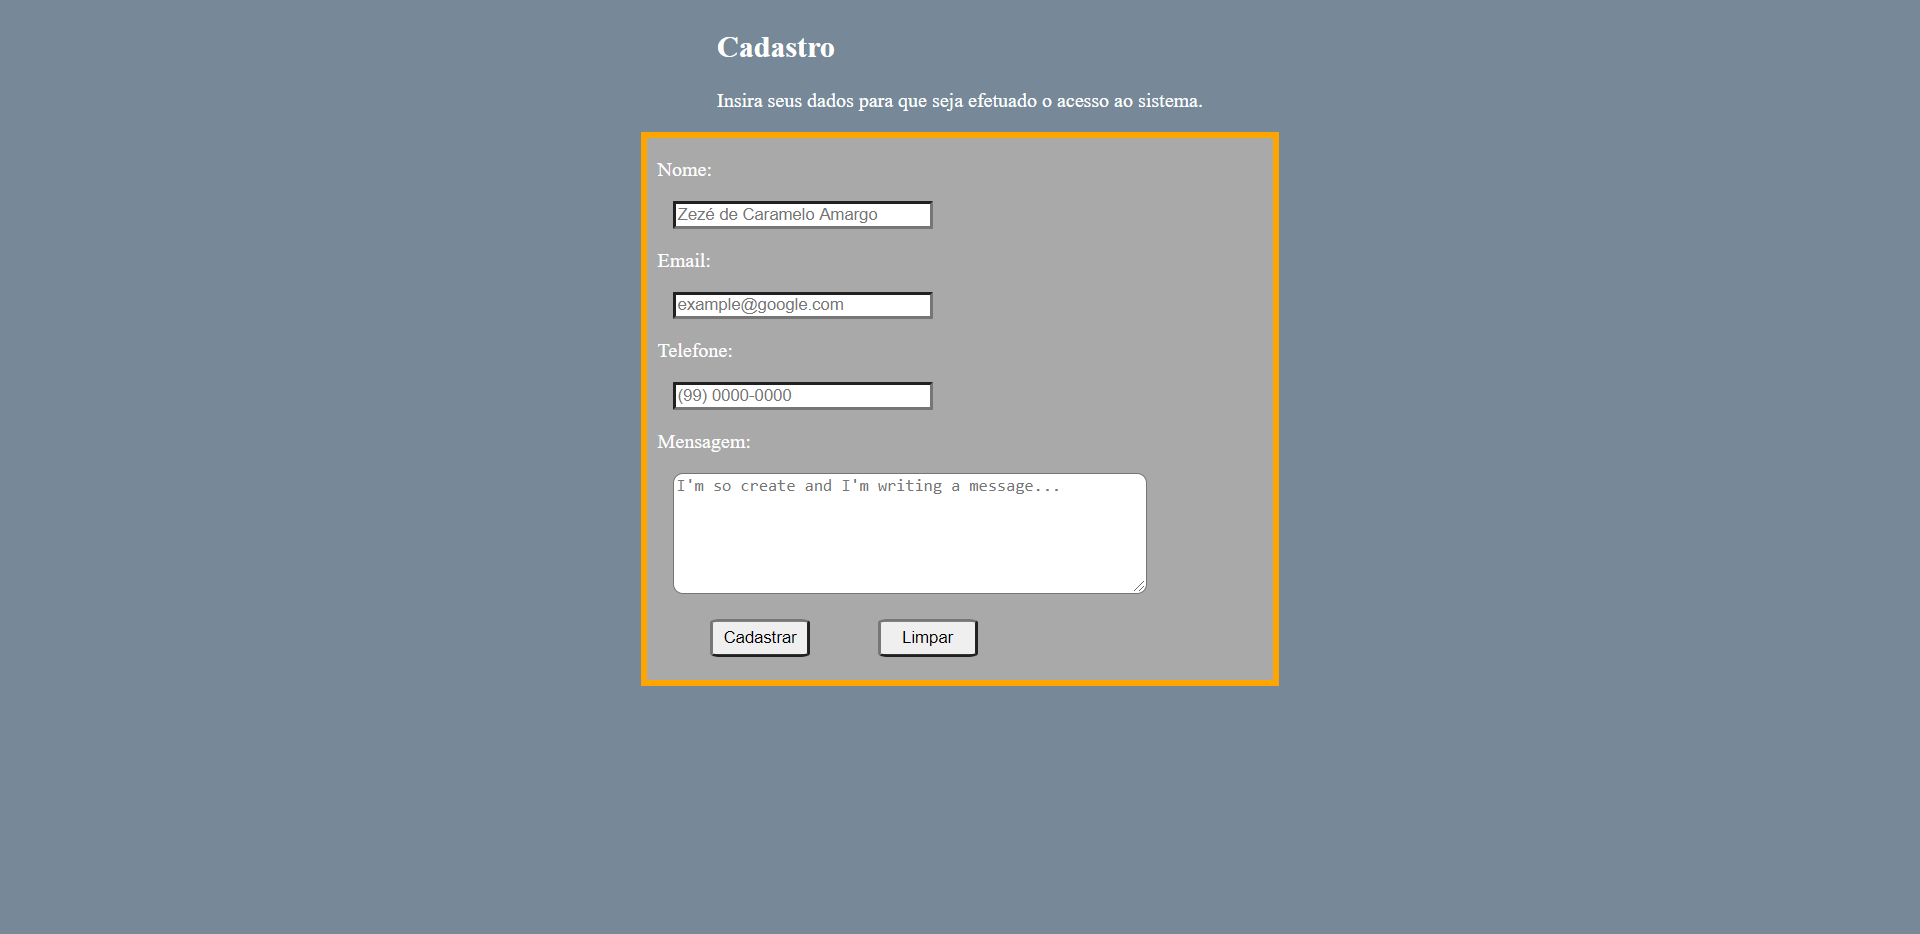
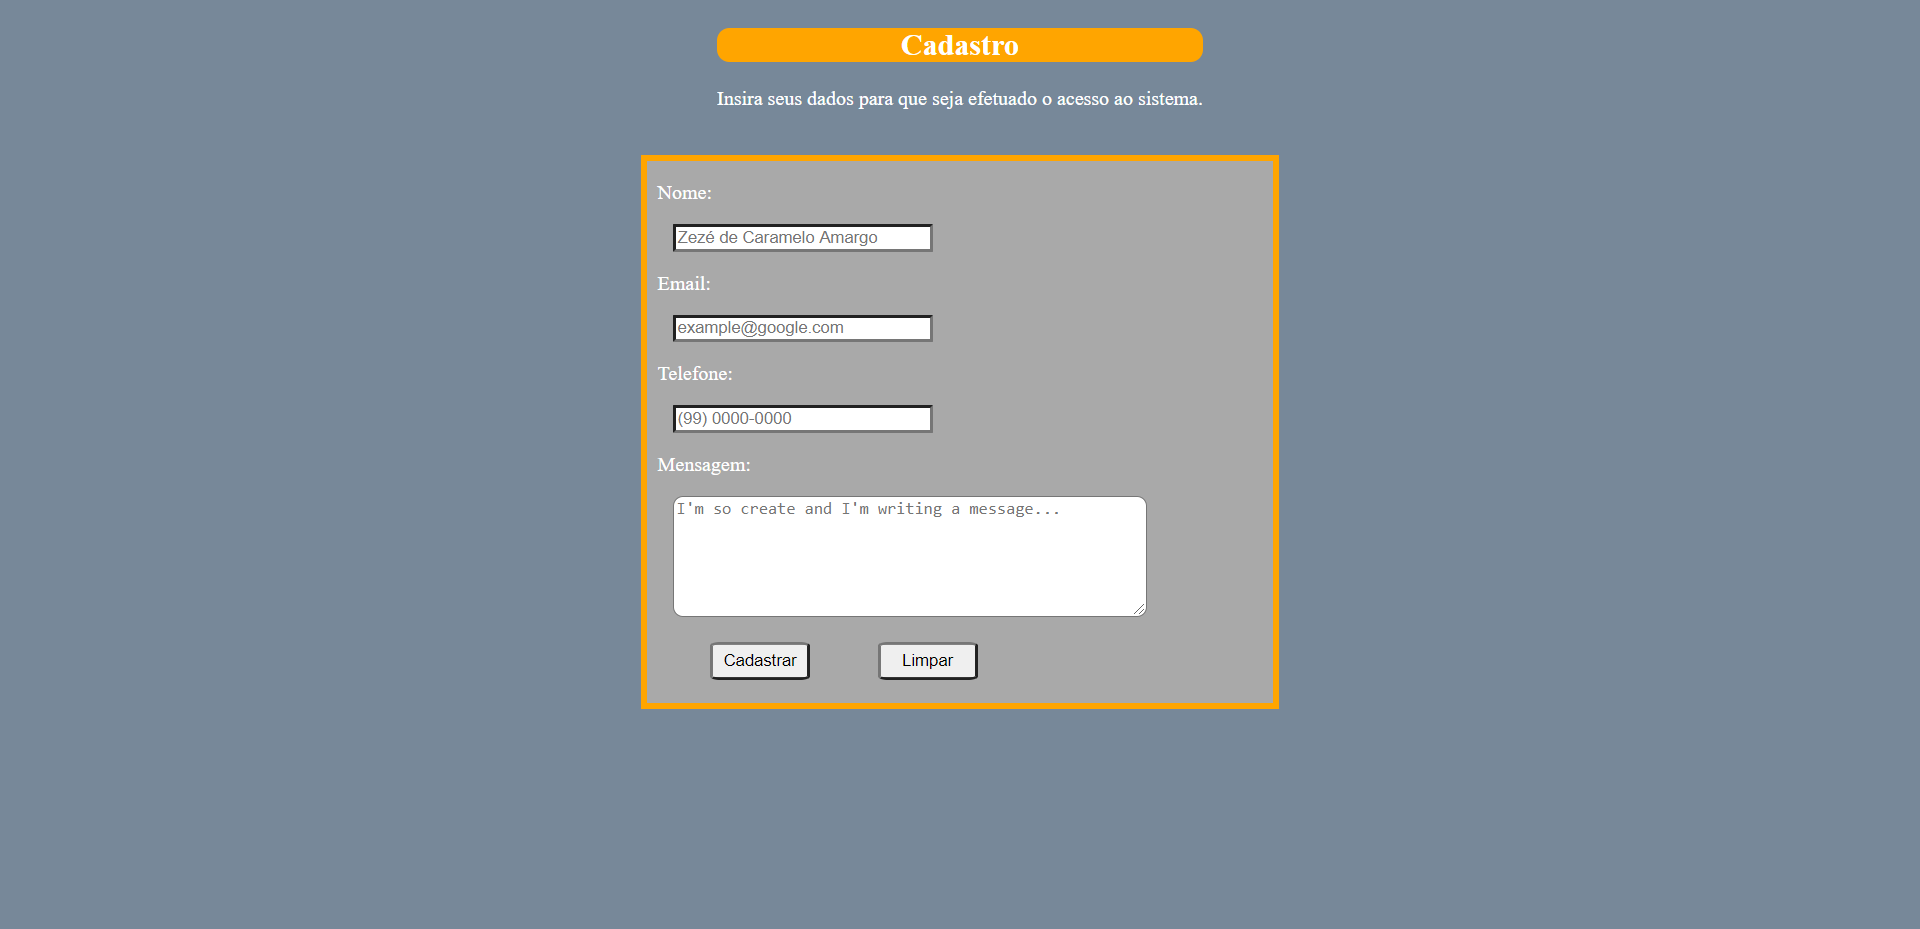
Alterações no exercicio3-formulario

Changed region(s): [[0.3125, 0.0312, 0.6875, 0.5619], [0.3125, 0.6243, 0.6875, 0.7804]]

diff --git a/css/exercicio3-formulario.css b/css/exercicio3-formulario.css
@@ -10,11 +10,25 @@ body {
     align-items: center;
 }
 
+.container #head {
+    padding: 0 80px;
+}
+
+#head h1 {
+    display: flex;
+    flex-direction: column;
+    align-self: center;
+    align-items: center;
+    background-color: orange;
+    border-radius: 10px;
+}
+
 #form {
     border: solid 5px;
     border-color: orange;
     background-color: darkgrey;
     width: 500px;
+    margin-top: 20px;
 }
 
 #f {
